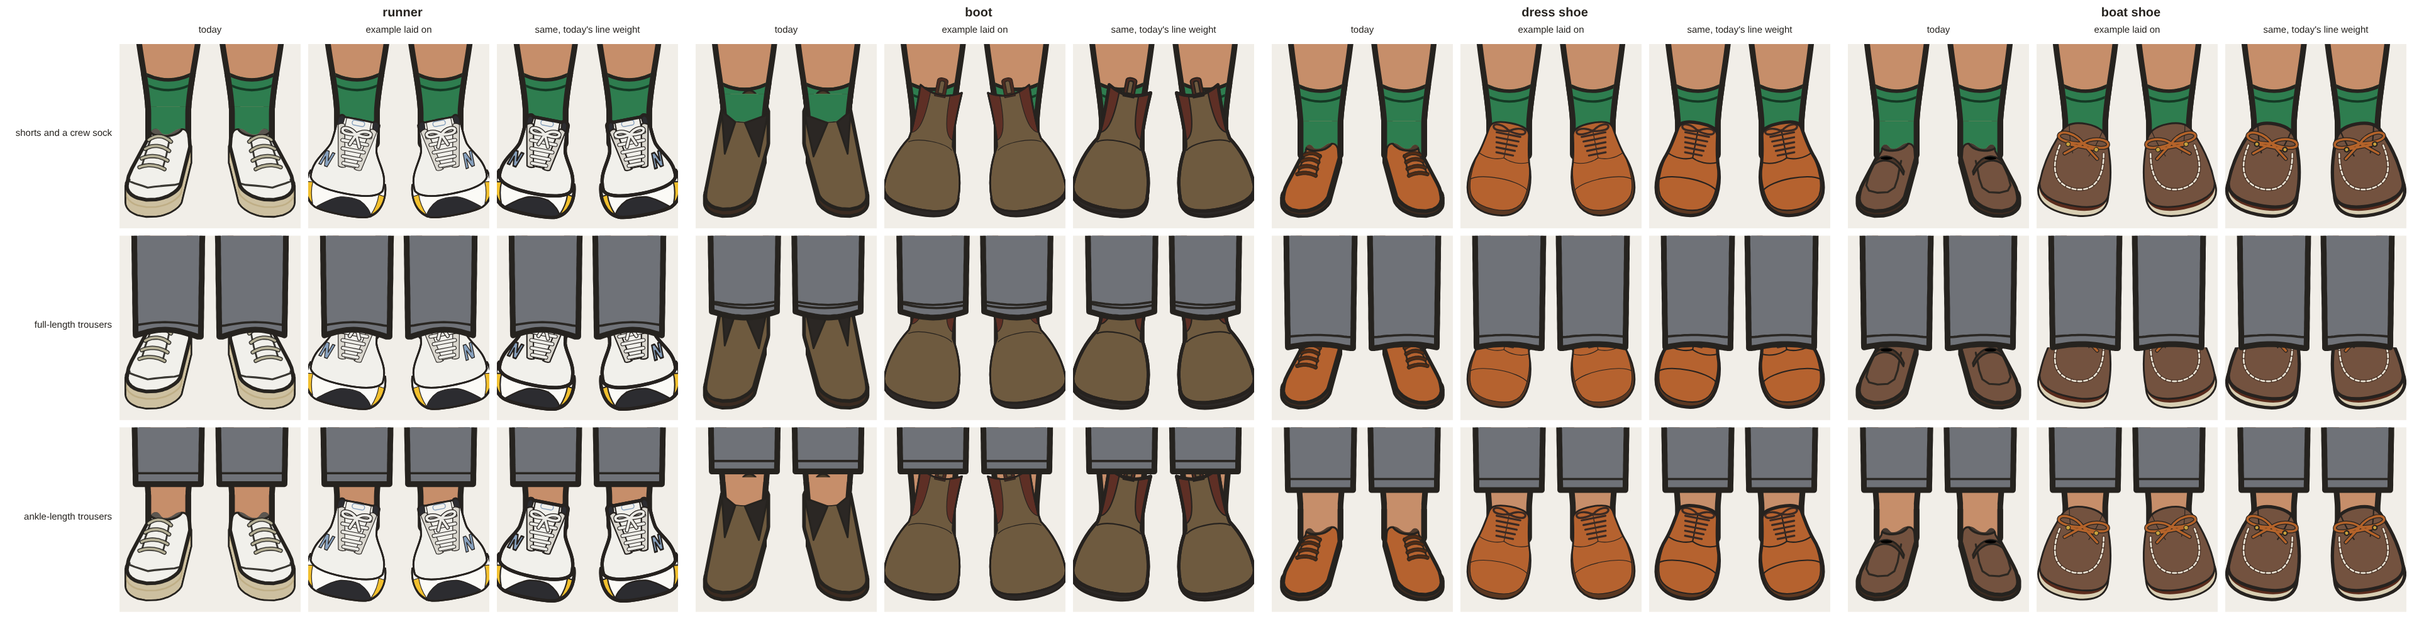
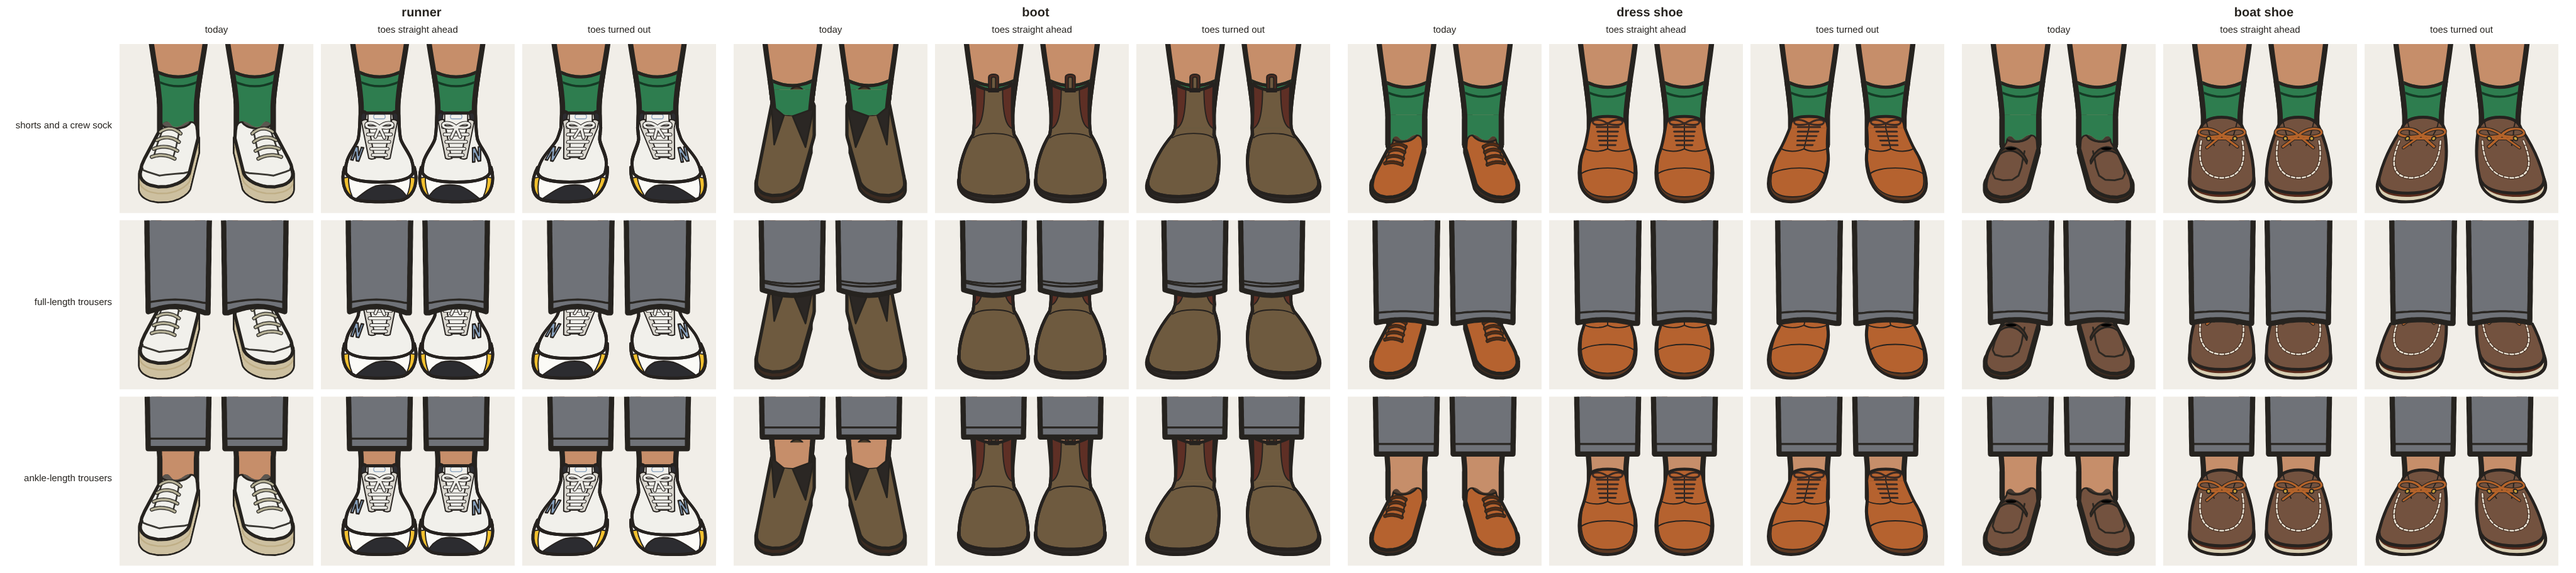
Shoe drawing on the figure: keep the shoe's top round the leg when the toes turn out
Tilting the whole drawing leant a boot's shaft away from the leg (the owner's
note). Only the part below the opening now slides sideways, more towards the
toe, so the collar or shaft stays upright round the leg. The sheets show the
toes straight ahead and turned out, with the figure's line weight.

Claude-Session: https://claude.ai/code/session_015h2NbRCi2sS1NKtoRzC6B7

Changed region(s): [[0.0, 0.0, 0.9964, 0.9835]]

diff --git a/bench/experiments/shoe_drawn/on_figure.py b/bench/experiments/shoe_drawn/on_figure.py
@@ -6,8 +6,12 @@ the view by; not app code, nothing imports it).
 The examples are drawn in the experiment's frame (x 0 to 200 centred on 100, ground at y = 240, the leg x 62 to 138
 going in at about y = 40 to 60), from the front and a little above. The figure looks down 24 degrees with the toes
 turned out 11 degrees. Each drawing is laid on the figure's own feet: its ground on the figure's ground, its leg on
-the figure's leg (so the frame is scaled until its leg is as wide as the figure's ankle), turned out 11 degrees
-round the opening, the viewer's right foot mirrored unless there is a right drawing. Everything else (the figure,
+the figure's leg (so the frame is scaled until its leg is as wide as the figure's ankle), its lines as thick as the
+figure's, the viewer's right foot mirrored unless there is a right drawing. Drawn twice: toes straight ahead, and
+toes turned out as far as today's shoes are. A turned foot keeps the top of the shoe round the leg: only the part
+below the opening is slid sideways, more the nearer the toe (a shear hinged at the opening), so the collar or a
+boot's shaft stays upright round the leg. (Tilting the whole drawing, the first try, leant a boot's shaft away from
+the leg.) Everything else (the figure,
 the trousers, where their hem falls) is the app's own drawing, unchanged: the hem is still placed for today's shoe.
 
 Writes on-figure-closeup.png (the feet, large), on-figure-phone.png (whole figures at phone size) and the SVGs
@@ -33,8 +37,7 @@ from closet.drawing.figure import Piece, figure, plan  # noqa: E402
 EX = HERE / "EXAMPLES"
 FRAME_LEG = (62.0, 138.0)   # the frame's leg, left and right edge
 FRAME_GROUND = 240.0
-FRAME_OPENING = (100.0, 50.0)   # where the leg goes in: the turn is made round it
-TURN = 11.0
+HINGE_Y = 60.0   # the frame's opening: above it the shoe stays upright round the leg, below it the toe swings out
 
 # name, the example's left (and right) drawing, and today's drawing for the same shoe (category, style, colour, details)
 SHOES = [
@@ -70,29 +73,43 @@ def fragment(name: str, uid: str, line: float = 1.0) -> str:
     return text.replace('id="', f'id="{uid}').replace("url(#", f"url(#{uid}").replace('href="#', f'href="#{uid}')
 
 
-def drawn_pair(pieces: dict, left: str, right: str | None, uid: str, line: float = 1.0) -> tuple[str, dict]:
-    """The example drawing placed on each of the figure's feet, and the numbers it was placed by."""
+def turned(body: str, uid: str, shear: float) -> str:
+    """The drawing with its toe swung out: above the hinge as it is, below it slid sideways by `shear` units for each
+    unit below the hinge. The two halves meet at the hinge, where the slide is nothing."""
+    if not shear:
+        return body
+    y0 = HINGE_Y
+    lower = body.replace('id="', 'id="h')   # the second copy's ids kept apart from the first's
+    return (f'<clipPath id="{uid}hu"><rect x="-1000" y="-1000" width="3000" height="{1000 + y0 + 0.6}"/></clipPath>'
+            f'<clipPath id="{uid}hd"><rect x="-1000" y="{y0}" width="3000" height="2000"/></clipPath>'
+            f'<g clip-path="url(#{uid}hu)">{body}</g>'
+            f'<g clip-path="url(#{uid}hd)"><g transform="matrix(1 0 {shear:.4f} 1 {-shear * y0:.3f} 0)">'
+            f'{lower}</g></g>')
+
+
+def drawn_pair(pieces: dict, left: str, right: str | None, uid: str, turn: bool, line: float = TODAY_LINE
+               ) -> tuple[str, dict]:
+    """The example drawing placed on each of the figure's feet, and the numbers it was placed by. With `turn`, the
+    toe swings out as far as today's shoe's does: the slope from its ankle to its toe tip."""
     shoes = plan(pieces).get("shoes")
     a = shoes.front.anchors
     leg_w = 2 * (a["ankle_r"][0] - a["ankle"][0])
     k = leg_w / (FRAME_LEG[1] - FRAME_LEG[0])
     ground = shoes.box()[3] - 2          # today's sole's lowest point (its box has 2 px to spare)
-    ox, oy = FRAME_OPENING
+    shear = (a["toe"][0] - a["ankle"][0]) / (a["toe"][1] - a["ankle"][1]) if turn else 0.0
     out = []
     for copy in (0, 1):
-        ax, ay = shoes.point(a["ankle"], copy)
+        ax, _ = shoes.point(a["ankle"], copy)
         if copy == 0 or right is None:
-            mirror = 1 if copy == 0 else -1
-            body = fragment(left, f"{uid}{copy}", line)
-            turn = TURN
-        else:
-            mirror, body, turn = 1, fragment(right, f"{uid}{copy}", line), -TURN
+            mirror, body = (1 if copy == 0 else -1), fragment(left, f"{uid}{copy}", line)
+            sh = shear
+        else:   # the right shoe drawn on its own: not mirrored, so its toe swings the other way
+            mirror, body, sh = 1, fragment(right, f"{uid}{copy}", line), -shear
         # frame -> figure: the frame's leg centre over the figure's ankle, its ground on the figure's ground
         place = f"translate({ax:.2f} {ground:.2f}) scale({mirror * k:.4f} {k:.4f}) translate({-100:.1f} {-FRAME_GROUND:.1f})"
-        out.append(f'<g transform="{place}"><g transform="rotate({turn} {ox} {oy})">{body}</g></g>')
-    top = ground + k * (oy - FRAME_GROUND)
-    info = {"scale": k, "leg_px": leg_w, "ground": ground, "opening_y": top, "leg_ends": shoes.point(a["ankle"])[1],
-            "today_box": shoes.box()}
+        out.append(f'<g transform="{place}">{turned(body, f"{uid}{copy}", sh)}</g>')
+    info = {"scale": k, "leg_px": leg_w, "ground": ground, "opening_y": ground + k * (HINGE_Y - FRAME_GROUND),
+            "leg_ends": shoes.point(a["ankle"])[1], "today_box": shoes.box(), "shear": shear}
     return "".join(out), info
 
 
@@ -130,10 +147,10 @@ def main() -> None:
     args.out.mkdir(parents=True, exist_ok=True)
 
     # the feet, close up: for each shoe, today's drawing, the example laid on as drawn, and with today's line weight
-    FW, FH, ZOOM = 120, 122, 2.4        # the feet's box in figure units, and how much larger it is drawn
+    FW, FH, ZOOM = 140, 122, 2.2        # the feet's box in figure units, and how much larger it is drawn
     cw, ch = FW * ZOOM, FH * ZOOM
     lab, gap, head = 190, 12, 70
-    kinds = [("today", None), ("example laid on", 1.0), ("same, today's line weight", TODAY_LINE)]
+    kinds = [("today", None), ("toes straight ahead", False), ("toes turned out", True)]
     cols = len(SHOES) * len(kinds)
     W, H = lab + cols * (cw + gap) + len(SHOES) * 16, head + len(CASES) * (ch + gap)
     cells, notes, phone = [], [], {}
@@ -152,7 +169,7 @@ def main() -> None:
                 uid = f"u{j}{i}{n}"
                 svg = figure(pieces, uid=uid)
                 if line is not None:
-                    pair, info = drawn_pair(pieces, left, right, f"d{j}{i}{n}", line)
+                    pair, info = drawn_pair(pieces, left, right, f"d{j}{i}{n}", turn=line)
                     svg = swap_shoes(svg, uid, pair)
                 box = (200 - FW / 2, info["ground"] - FH + 8, FW, FH) if line is not None else None
                 phone.setdefault((name, case), []).append((kind, svg))
@@ -166,7 +183,7 @@ def main() -> None:
             if case == "shorts":
                 tb = info["today_box"]
                 notes.append(f"{name}: scale {info['scale']:.3f} px a frame unit (leg {info['leg_px']:.1f} px); "
-                             f"opening at y {info['opening_y']:.1f}, leg ends at y {info['leg_ends']:.1f}; "
+                             f"toe slides {info['shear']:.3f} a unit; opening at y {info['opening_y']:.1f}, leg ends at y {info['leg_ends']:.1f}; "
                              f"today's pair {tb[2] - tb[0] - 4:.0f} x {tb[3] - tb[1] - 4:.0f} px")
     sheet = (f'<svg xmlns="http://www.w3.org/2000/svg" viewBox="0 0 {W} {H}" width="{W}" height="{H}">'
              f'<rect width="{W}" height="{H}" fill="#ffffff"/>{"".join(cells)}</svg>')
@@ -188,7 +205,7 @@ def main() -> None:
                 x = x0 + n * (pw + 6)
                 pcells.append(cell(svg, view_box(svg), x, y, pw, ph))
                 if r == 1:
-                    pcells.append(text(x + pw / 2, y + ph + 16, ["today", "example", "+ line"][n], 11))
+                    pcells.append(text(x + pw / 2, y + ph + 16, ["today", "straight", "turned out"][n], 11))
     PW, PH = 10 + len(SHOES) * (len(kinds) * (pw + 6) + 24), 30 + 2 * (ph + 30)
     psheet = (f'<svg xmlns="http://www.w3.org/2000/svg" viewBox="0 0 {PW:.0f} {PH:.0f}" width="{PW:.0f}" '
               f'height="{PH:.0f}"><rect width="{PW:.0f}" height="{PH:.0f}" fill="#fbfaf7"/>{"".join(pcells)}</svg>')

diff --git a/bench/experiments/shoe_drawn/README.md b/bench/experiments/shoe_drawn/README.md
@@ -59,13 +59,14 @@ Instead of tracing or measuring a shoe, a vision model (Claude) does what a pers
 
 - **On the app's figure** (`on_figure.py`; sheets `docs/screenshots/shoe-drawn-on-figure-closeup.png` and
   `-phone.png`): the saved runner, boot, dress shoe and boat shoe laid on the app's own figure in place of today's
-  shoes: on the figure's ground, sized so the leg fills the opening, turned out 11°, the runner's left and right
-  drawn separately, the trousers' hem left where it falls for today's shoe. The leg goes in at the opening on all
-  four, under shorts with a crew sock and under full-length and ankle-length trousers. Beside today's shoes the
-  drawings are about a quarter wider (59 px against about 46) and a little lower, because they are drawn from
-  nearly level and the frame's leg is narrow for its shoe (4.5 cm against the figure's 6.8 cm); their outline is
-  about half as thick as the figure's (1.2 px against 2.2), which the sheets' third column corrects. With the
-  owner to judge whether the view fits.
+  shoes: on the figure's ground, sized so the leg fills the opening, lines as thick as the figure's, the runner's
+  left and right drawn separately, the trousers' hem left where it falls for today's shoe; once with the toes
+  straight ahead and once turned out as far as today's. The first try tilted the whole drawing 11° to turn the toes
+  out, and the owner saw that the boot's shaft then leant away from the leg and sock. Now only the part below the
+  opening slides sideways, more towards the toe, so the collar or shaft stays upright round the leg. Beside today's
+  shoes the drawings are about a quarter wider (59 px against about 46) and a little lower, because they are drawn
+  from nearly level and the frame's leg is narrow for its shoe (4.5 cm against the figure's 6.8 cm), and they show
+  the toe end where today's show the top of the shoe. With the owner to judge.
 
 **Still open:** the runner's toe rubber was corrected from a one-line note in one round and is with the owner to judge. The method has only been
 tuned and judged on these five pairs, so it must next be run unchanged on pairs it has not seen. The drawings are
